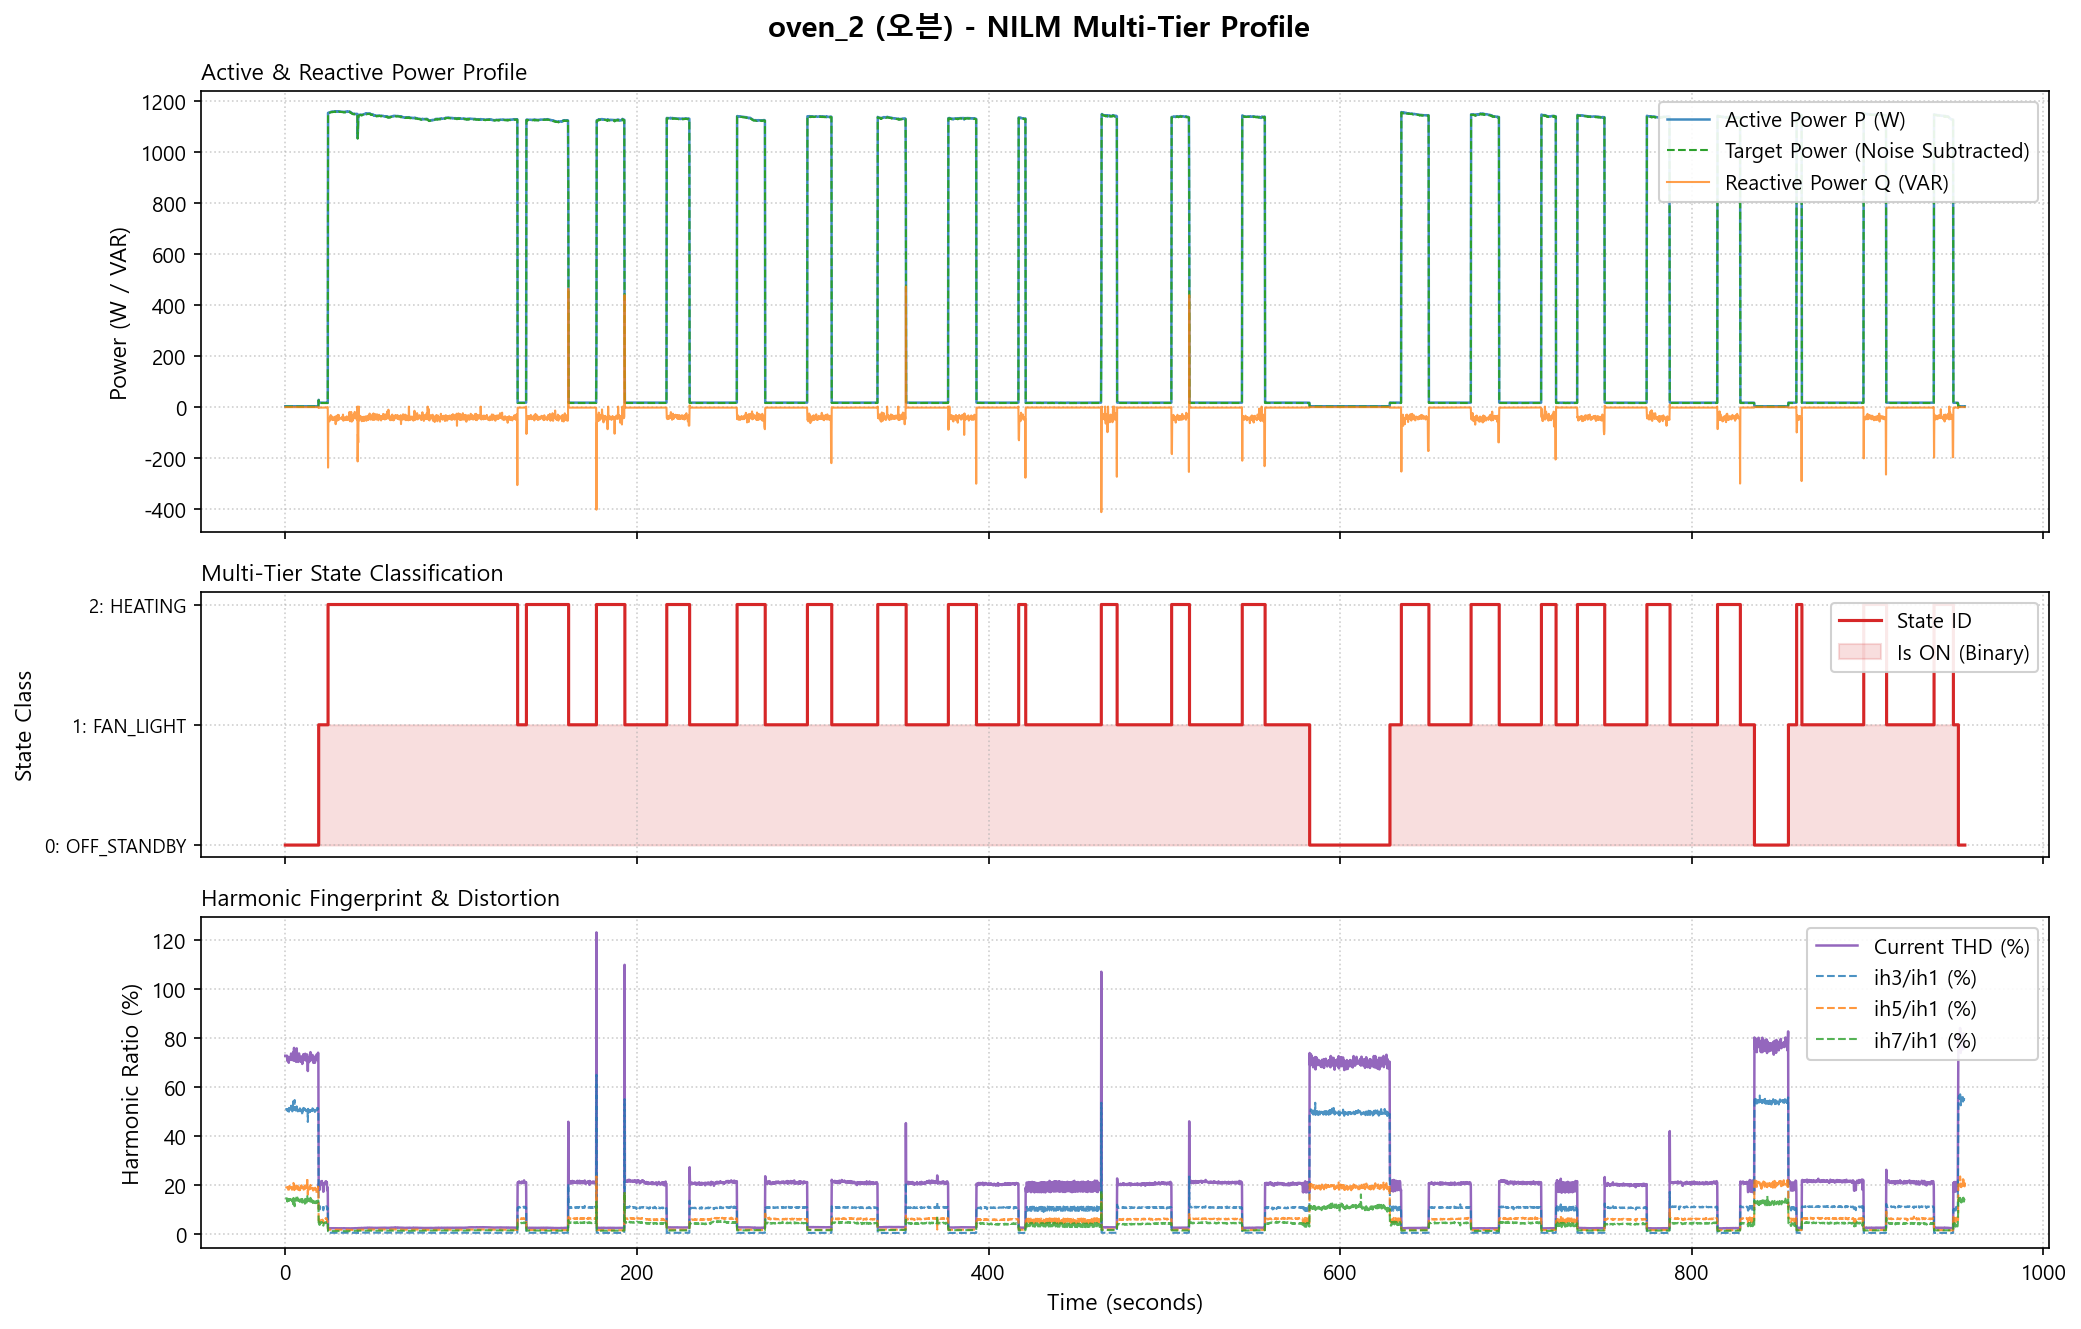
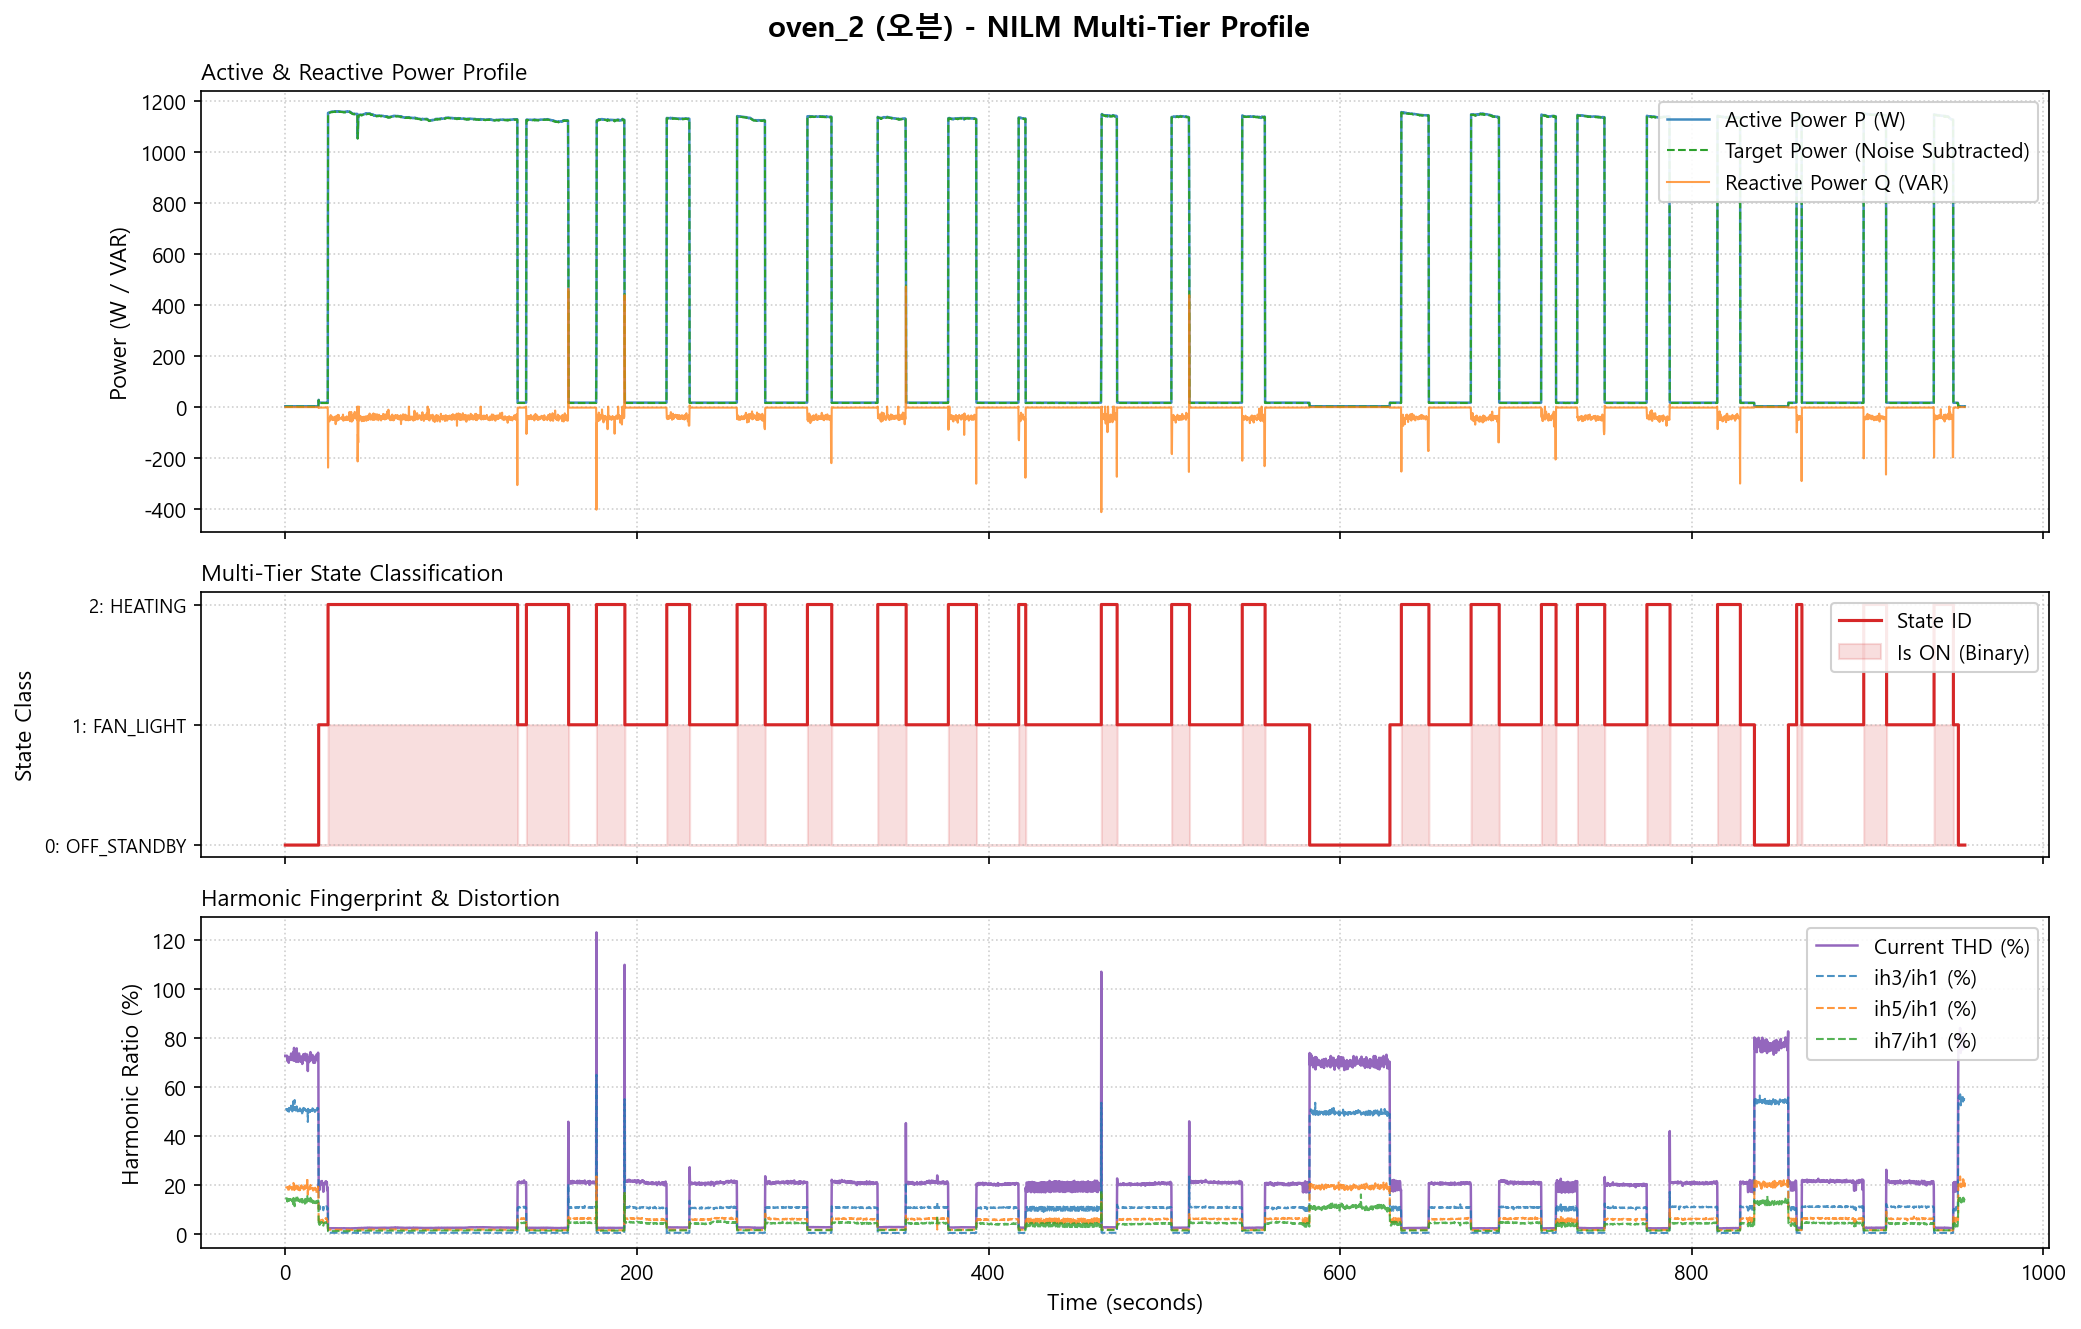
feat(12.111): 오븐 ON 을 '히터 통전' 으로 — on_state_min_id
12.110.2 가 찾은 원인을 고친다. 오븐의 팬/조명 상태가 16.5W 라
on_threshold_w=10 을 넘어서, 히터가 꺼진 25분 내내 is_on=1 이었다.
그 결과 "오븐 ON 인데 전력 0W" 인 창이 절반이 되고 모델이 저항 부하를
전부 오븐으로 읽었다 (재현율 1.000 정밀도 0.277).

- ApplianceStateConfig.on_state_min_id 신설, 오븐에 2(HEATING) 지정
- state_classifier: is_on = state_id >= on_state_min_id
- segment_pool: 대기 지문을 state_id==0 에서만 뽑는다. is_on==0 을 쓰면
  오븐 팬/조명이 대기로 들어가 꽂아만 둬도 17W 유령이 붙는다 (총합 21.9W)
- PERIODIC_MERGE_GAP_CAP_CYCLES 600 -> 5400. 오븐 서모스탯 공백이 25~31초
  (최대 78초)라 10초 상한으로는 세션 3개가 펄스 70개로 쪼개진다.
  핫플(공백 1.1~1.3초)은 2 x duty_period 가 먼저 걸려 영향 없다

결과: 오븐 활성화 3개, 통전율 25~43%, 통전 중 1,150W — 핫플과 같은 구조.
대기 총합 21.9 -> 7.2W.

테스트 3개를 손봤다. 듀티 부하는 짧은 창에서 통전이 없을 수 있어
(오븐 공백 25~31초 > 10초 창) 레시피 시험을 운영 창 3600으로 옮기고
'매 창' 대신 '대부분의 창'으로 바꿨다. 실측 라벨 검사도 듀티 부하는
하한 검사 대신 통전율로 본다. 142 passed.

판정 기준은 12.111.3 에 돌리기 전에 적었다.

Changed region(s): [[0.2499, 0.5245, 0.937, 0.6479]]

diff --git a/tests/test_synthesis_and_augmentation.py b/tests/test_synthesis_and_augmentation.py
@@ -700,16 +700,22 @@ def test_high_power_resistive_windows_boost_rare_appliances(segment_pool):
     resistive = set(get_resistive_appliances())
     assert resistive, "저항 부하가 등록되어 있지 않습니다"
 
-    gen = NILMBatchGenerator(segment_pool=segment_pool, window_size_cycles=300)
+    # **창 길이는 운영값(3600 = 60초)을 쓴다.** 300(5초)이면 오븐이 통전 없는
+    # 창을 만든다 — 12.111 이 오븐 ON 을 '히터 통전'으로 바꾸면서 서모스탯
+    # 공백(25~31초)이 라벨에 드러났고, 그것이 5초 창보다 훨씬 길다.
+    gen = NILMBatchGenerator(segment_pool=segment_pool, window_size_cycles=3600)
     assert "high_power_resistive" in gen.describe_recipe_mix()
 
-    # 전용 레시피는 반드시 저항 부하를 켠다
+    # 전용 레시피는 저항 부하만 켠다. 다만 **듀티 부하는 창 안에서 통전이 없을 수
+    # 있으므로**(오븐 통전율 25~43%) 매 창이 아니라 대부분의 창을 본다.
+    n_active = 0
     for _ in range(20):
-        s = gen.synthesizer.synthesize_high_power_window(300)
+        s = gen.synthesizer.synthesize_high_power_window(3600)
         active = set(s.active_appliances)
-        assert active, "고전력 윈도우인데 켜진 기기가 없습니다"
+        n_active += bool(active)
         assert active <= resistive, f"저항 부하가 아닌 기기가 켜졌습니다: {active - resistive}"
         assert s.metadata["max_sustained_p_w"] <= gen.synthesizer.sustained_power_limit_w
+    assert n_active >= 18, f"20창 중 {n_active}창에서만 저항이 통전했습니다"
 
 
 def test_high_low_mixed_creates_the_error_bleed_case(segment_pool):
@@ -725,12 +731,16 @@ def test_high_low_mixed_creates_the_error_bleed_case(segment_pool):
     syn = LoadSynthesizer(segment_pool=segment_pool, compute_gt_harmonics=False)
     low_load = {a for a in syn.known_appliances if is_low_load(a)}
 
+    # 듀티 부하(오븐 통전율 25~43%)는 창 안에서 통전이 없을 수 있다 — 12.111.
+    # 그래서 매 창이 아니라 대부분의 창에서 고부하가 잡히는지 본다.
+    n_hi = 0
     for _ in range(20):
-        s = syn.synthesize_high_low_mixed_window(600)
+        s = syn.synthesize_high_low_mixed_window(3600)
         active = set(s.active_appliances)
-        assert active & resistive, f"고부하가 없습니다: {active}"
+        n_hi += bool(active & resistive)
         assert active & low_load, f"저부하가 없습니다: {active}"
         assert s.metadata["max_sustained_p_w"] <= syn.sustained_power_limit_w
+    assert n_hi >= 17, f"20창 중 {n_hi}창에서만 고부하가 통전했습니다"
 
 
 def test_recipe_mix_covers_high_low_cooccurrence(segment_pool):

diff --git a/src/synthesis/segment_pool.py b/src/synthesis/segment_pool.py
@@ -38,8 +38,19 @@ MIN_ACTIVATION_CYCLES = 30
 # 주기 부하의 통전 펄스를 하나의 '세션'으로 묶을 때 허용하는 최대 공백.
 # 측정 주기(duty_period)의 이 배수까지는 릴레이/서모스탯이 끊은 것으로 보고 이어 붙인다.
 PERIODIC_MERGE_GAP_FACTOR = 2.0
-# 배수 규칙이 폭주하지 않도록 둔 절대 상한 (10초). 이보다 긴 공백은 세션이 끊긴 것이다.
-PERIODIC_MERGE_GAP_CAP_CYCLES = 600
+# 배수 규칙이 폭주하지 않도록 둔 절대 상한. 이보다 긴 공백은 세션이 끊긴 것이다.
+#
+# **10초(600) 였는데 90초(5400)로 올렸다 (2026-08-27, 12.111).** 오븐의 ON 을
+# '히터 통전' 으로 바꾸자 서모스탯 공백이 처음으로 드러났는데, 그 공백이
+# 핫플레이트 릴레이보다 20배 길다:
+#
+#     핫플 펄스 0.7~0.8초 / 공백 1.1~1.3초 (최대 1.5초)
+#     오븐 펄스 9~13초   / 공백 25~31초   (p90 35초, 최대 78초)
+#
+# 10초 상한이면 오븐 세션 3개가 펄스 70개로 쪼개져 주기 구조를 잃는다.
+# 90초면 오븐 공백은 잇고(최대 78초) 핫플은 영향이 없다 —
+# 핫플은 `2 x duty_period`(약 250사이클) 가 먼저 걸린다.
+PERIODIC_MERGE_GAP_CAP_CYCLES = 5400
 # 대기 지문을 신뢰하려면 최소 이만큼의 OFF 샘플이 필요하다 (1초)
 MIN_STANDBY_SAMPLES = 60
 # 대기 지터 풀로 보관할 최대 샘플 수 (메모리 상한)
@@ -401,7 +412,15 @@ class SegmentPool:
     ) -> Optional[StandbyProfile]:
         """OFF 구간에서 기기 자신의 대기 전기 지문을 뽑는다."""
         is_on = data["is_on"]
-        idle_mask = is_on == 0
+        # **진짜 OFF(state 0)에서만 뽑는다.** `is_on == 0` 을 쓰면 오븐이 틀어진다 —
+        # 12.111 이 오븐의 ON 을 '히터 통전'으로 바꾸면서 팬/조명 상태(16.5W)가
+        # `is_on == 0` 에 들어왔고, 그대로 두면 오븐을 **꽂아만 둬도** 17W 의
+        # 유령 대기전력이 붙는다 (대기 총합 21.9W, 상한 15W 초과).
+        # 대기 지문의 정의는 "꽂혀만 있을 때" 이므로 상태 0 이 맞다.
+        if "state_id" in data:
+            idle_mask = np.asarray(data["state_id"]) == 0
+        else:
+            idle_mask = is_on == 0
         # 품질 게이팅에 걸린 샘플은 제외한다.
         if "is_valid" in data:
             idle_mask = idle_mask & (data["is_valid"] == 1)

diff --git a/tests/test_evaluation_harness.py b/tests/test_evaluation_harness.py
@@ -413,6 +413,8 @@ def test_real_event_labels_are_physically_possible():
         pytest.skip("real_events.json 이 없습니다")
     files = json.loads(ev_path.read_text(encoding="utf-8"))["files"]
 
+    from src.preprocessing.file_registry import is_periodic_duty
+
     # 기기별 최저 소비 (개별 녹화의 p10 중 최솟값). 여유를 두고 보수적으로 잡는다.
     MIN_W = {"minipc": 7.0, "beam_projector": 35.0, "laptop_charger": 15.0,
              "hotplate": 300.0, "oven": 10.0, "electiric_kettle": 800.0,
@@ -443,6 +445,16 @@ def test_real_event_labels_are_physically_possible():
             for a, b in iv.get("uncertain", []):
                 m[int(a * 60):int(b * 60)] = False
             if not m.any():
+                continue
+            if is_periodic_duty(app):
+                # **듀티 부하는 하한 검사를 못 쓴다.** 라벨이 세션 단위인데
+                # 릴레이/서모스탯이 통전을 끊으므로, 휴지 구간에는 총전력이
+                # 정당하게 0 근처로 내려간다 (test_11 의 핫플 세션 중 14.8%).
+                # 대신 **통전이 실제로 있었는가** 를 본다.
+                duty = float((p[m] >= floor).mean())
+                if duty < 0.15:
+                    bad.append(f"{stem}/{app}: ON 구간에서 {floor}W 이상인 사이클이 "
+                               f"{100*duty:.1f}% 뿐 (듀티 부하라 통전율로 본다)")
                 continue
             share = float((p[m] < floor).mean())
             if share > 0.02:

diff --git a/src/labeling/state_definitions.py b/src/labeling/state_definitions.py
@@ -25,6 +25,12 @@ class ApplianceStateConfig:
     states: List[StateRule]
     min_state_duration_s: float = 0.5  # Minimum time in seconds to confirm state transition (anti-chatter)
     hysteresis_w: float = 2.0  # Power deadband around threshold boundaries
+    #: 이 ID 이상인 상태만 `is_on=1` 로 본다 (None 이면 `on_threshold_w` 를 쓴다).
+    #: **오븐 때문에 생겼다** (12.111). 오븐의 팬/조명 상태가 16.5W 라
+    #: `on_threshold_w=10` 을 넘어, 히터가 꺼진 25분 내내 ON 으로 잡혔다.
+    #: 그 결과 "오븐 ON 인데 전력 0W" 인 창이 절반이 되고, 모델이 저항 부하를
+    #: 전부 오븐으로 읽는 원인이 됐다 (12.110.2: 재현율 1.000 정밀도 0.277).
+    on_state_min_id: Optional[int] = None
 
 
 # ── Appliance Specific State Configurations ─────────────────────────────────
@@ -138,6 +144,9 @@ STATE_CONFIGURATIONS: Dict[str, ApplianceStateConfig] = {
         appliance_type="oven",
         korean_name="오븐",
         on_threshold_w=10.0,
+        # 히터 통전(state 2)만 ON 으로 본다 — 12.111. 팬/조명(16.5W)은 OFF 로
+        # 두어 합성기가 대기 전력으로 넘긴다 (핫플레이트와 같은 취급).
+        on_state_min_id=2,
         min_state_duration_s=0.5,
         hysteresis_w=5.0,
         states=[

diff --git a/src/labeling/state_classifier.py b/src/labeling/state_classifier.py
@@ -212,7 +212,14 @@ class StateClassifier:
 
             state_ids[i] = current_state
 
-        # 이진 is_on 라벨: 상태 ID가 0보다 크면 1, 0이면 0
-        is_on = np.where(state_ids > 0, 1, 0).astype(int)
+        # 이진 is_on 라벨: 상태 ID가 0보다 크면 1, 0이면 0.
+        # **단, `on_state_min_id` 가 있으면 그 ID 이상만 ON 이다** (12.111).
+        # 오븐이 그 경우다 — 팬/조명(16.5W)이 `on_threshold_w=10` 을 넘어서
+        # 히터가 꺼진 25분 내내 ON 으로 잡혔다. 그 라벨로 학습하면 "오븐 ON 인데
+        # 전력 0W" 인 창이 절반이 되고, 모델이 저항 부하를 전부 오븐으로 읽는다
+        # (12.110.2). 핫플레이트는 휴지 전력이 문턱 아래라 원래부터 통전만 ON 이다.
+        min_id = getattr(self.config, "on_state_min_id", None)
+        thr = 1 if min_id is None else int(min_id)
+        is_on = np.where(state_ids >= thr, 1, 0).astype(int)
 
         return state_ids, is_on, events

diff --git a/MODEL_TRAINING_DESIGN.md b/MODEL_TRAINING_DESIGN.md
@@ -12307,3 +12307,59 @@ test_13 (SMPS 전용)              test_11 / test_12 (저항 전용)
 ①이 뿌리에 가장 가깝다. 다만 오븐의 '세션 ON' 라벨은 **사용자가 스위치를 켠
 시각**이라 실측 라벨의 정의와 맞물린다 — 바꾸면 채점 기준도 함께 바뀐다.
 그 영향을 먼저 적어야 한다.
+
+## 12.111 오븐 ON 을 '히터 통전' 으로 (2026-08-27)
+
+12.110.3 의 ①이다. 원인 자리를 특정했다.
+
+### 12.111.1 왜 오븐만 그런가 — `on_threshold_w`
+
+```
+오븐 상태 정의 (state_definitions.py)
+  0 OFF_STANDBY   0~10W      대기            nominal 2.0W
+  1 FAN_LIGHT    10~100W     히터 꺼짐, 조명+팬  nominal 16.5W
+  2 HEATING     100~3000W    서모스탯 통전      nominal 1157.0W
+  on_threshold_w = 10.0
+```
+
+`is_on` 은 `P > on_threshold_w` 로 정해진다. **오븐의 팬/조명 상태가 16.5W 라
+10W 를 넘는다.** 그래서 히터가 꺼져 있어도 `is_on=1` 이다.
+
+세그먼트 풀에서 확인:
+
+```
+오븐 활성화     125.3초   is_on 100.0%   ON 전력 중앙 1160.1W
+오븐 활성화    1542.8초   is_on 100.0%   ON 전력 중앙 **15.3W**   <- 25분 내내 팬/조명
+핫플 활성화     592.0초   is_on  59.3%   ON 전력 중앙  463.2W   <- 릴레이 통전만 ON
+포트 활성화      27.0초   is_on 100.0%   ON 전력 중앙 1269.7W
+```
+
+**핫플은 제대로 통전만 ON 인데 오븐만 세션 전체가 ON 이다.** 그래서 12.110.2 의
+"오븐 ON 인 창의 52.8% 가 50W 미만" 이 나온다.
+
+### 12.111.2 고치는 법
+
+`ApplianceStateConfig` 에 `on_state_min_id` 를 추가하고 오븐에 2(HEATING)를 준다.
+`on_threshold_w` 를 100 으로 올리면 OFF 상태 상한(10W)과 어긋나 라벨 의미가
+모호해진다 (`state_classifier` 의 `_threshold_consistent` 검사).
+
+**휴지 구간의 팬/조명 전력은 대기로 간다** — 합성기가 이미
+`gt_standby_p = where(on_slice, 0, net_power)` 로 처리하므로
+`P = Σ활성 + Σ대기 + 계측계` 분해가 그대로 성립한다 (핫플이 그렇게 돌고 있다).
+
+### 12.111.3 판정 기준 — 돌리기 전에 적는다
+
+**오븐 재현율은 정의가 바뀌므로 직접 비교할 수 없다.** 세션 라벨(사람이 스위치를
+켠 시각)에 대고 재면 히터 통전율(25~40%)만큼으로 떨어지는 것이 정상이다.
+그래서 판정은 **정밀도와 다른 기기**로 한다.
+
+```
+① test_11/12 오븐 **정밀도** 0.277 / 0.634 -> 0.7 이상          <- 주 판정
+② test_11/12 포트·드라이기 **재현율** 0.000·0.005 / 0.294·0.121 -> 0.3 이상
+③ 기존 8파일: 유령 ≤ 2.13W, 전이 귀속 ≥ 44/59, 핫플 F1 −0.02 이내
+④ 총전력 잔차: test_11/12 의 285/282W 가 내려갈 것 (60초 평활 기준 169/127W)
+```
+
+> **되돌릴 수 있게 둔다.** `on_state_min_id` 를 빼면 옛 정의로 돌아간다.
+> 12.9.5 가 오븐 히터 통전을 "남은 실패" 로 지목한 이래 이 라벨 정의를 건드리는
+> 것은 처음이다. 실측 채점 기준이 함께 바뀌므로 ③을 넣었다.
